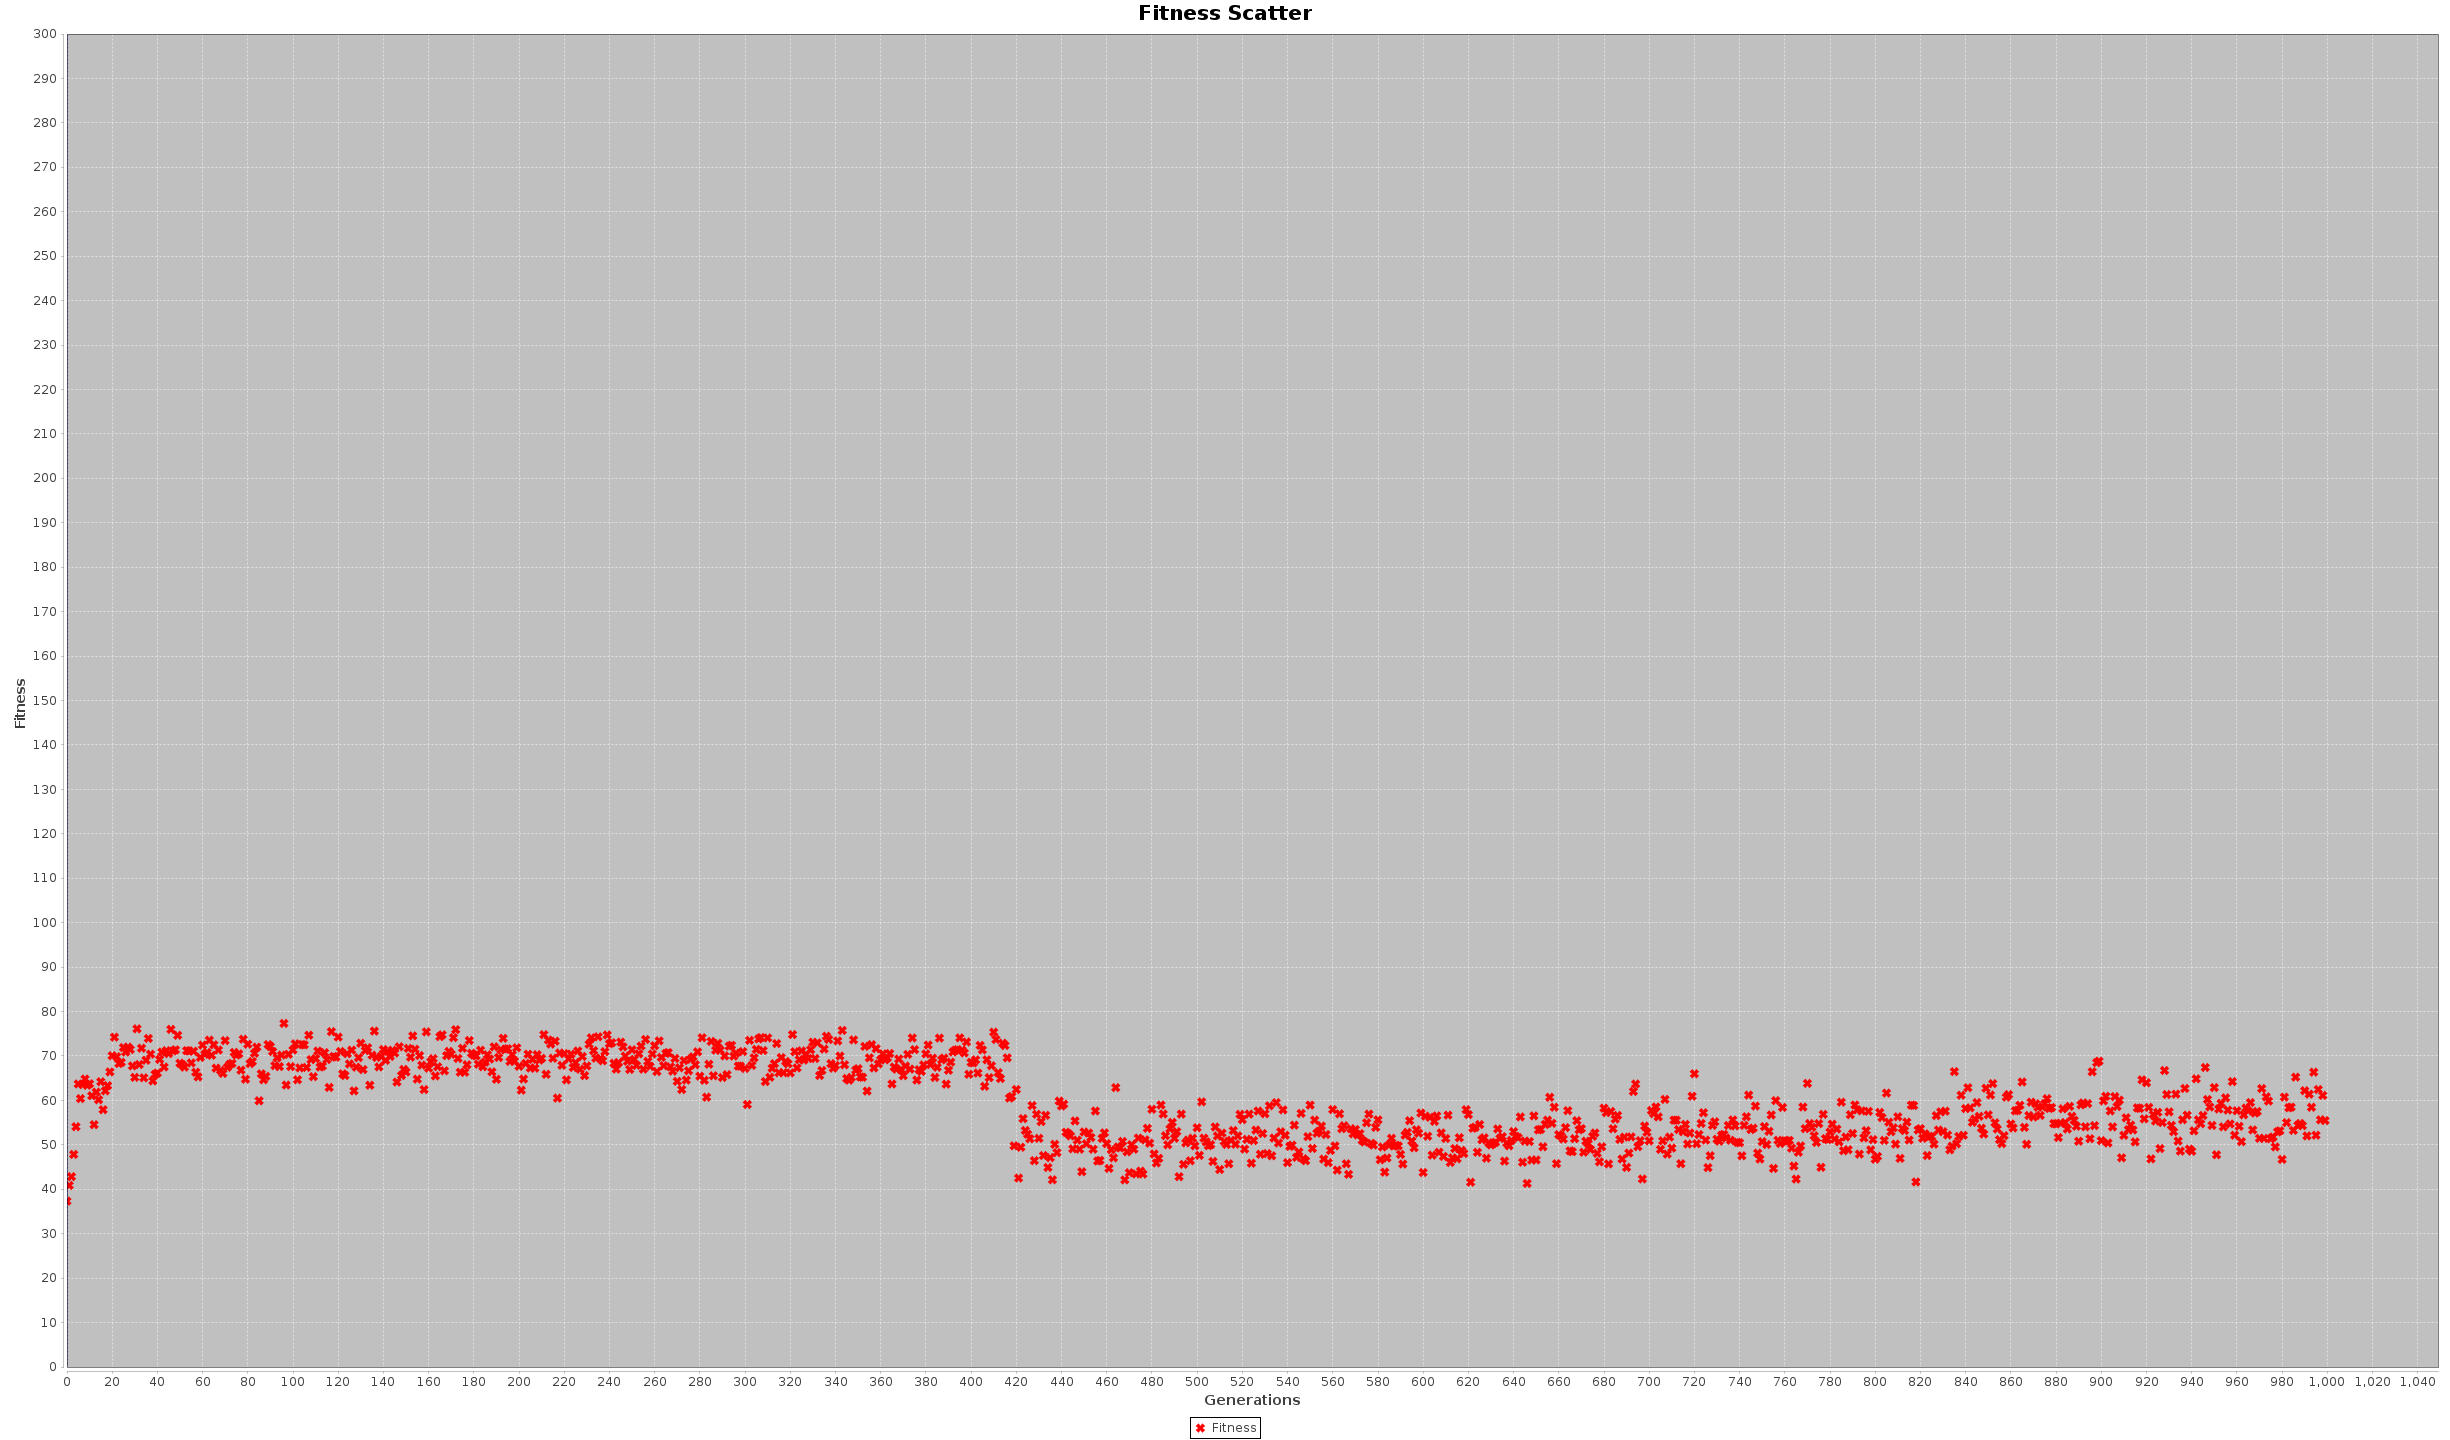
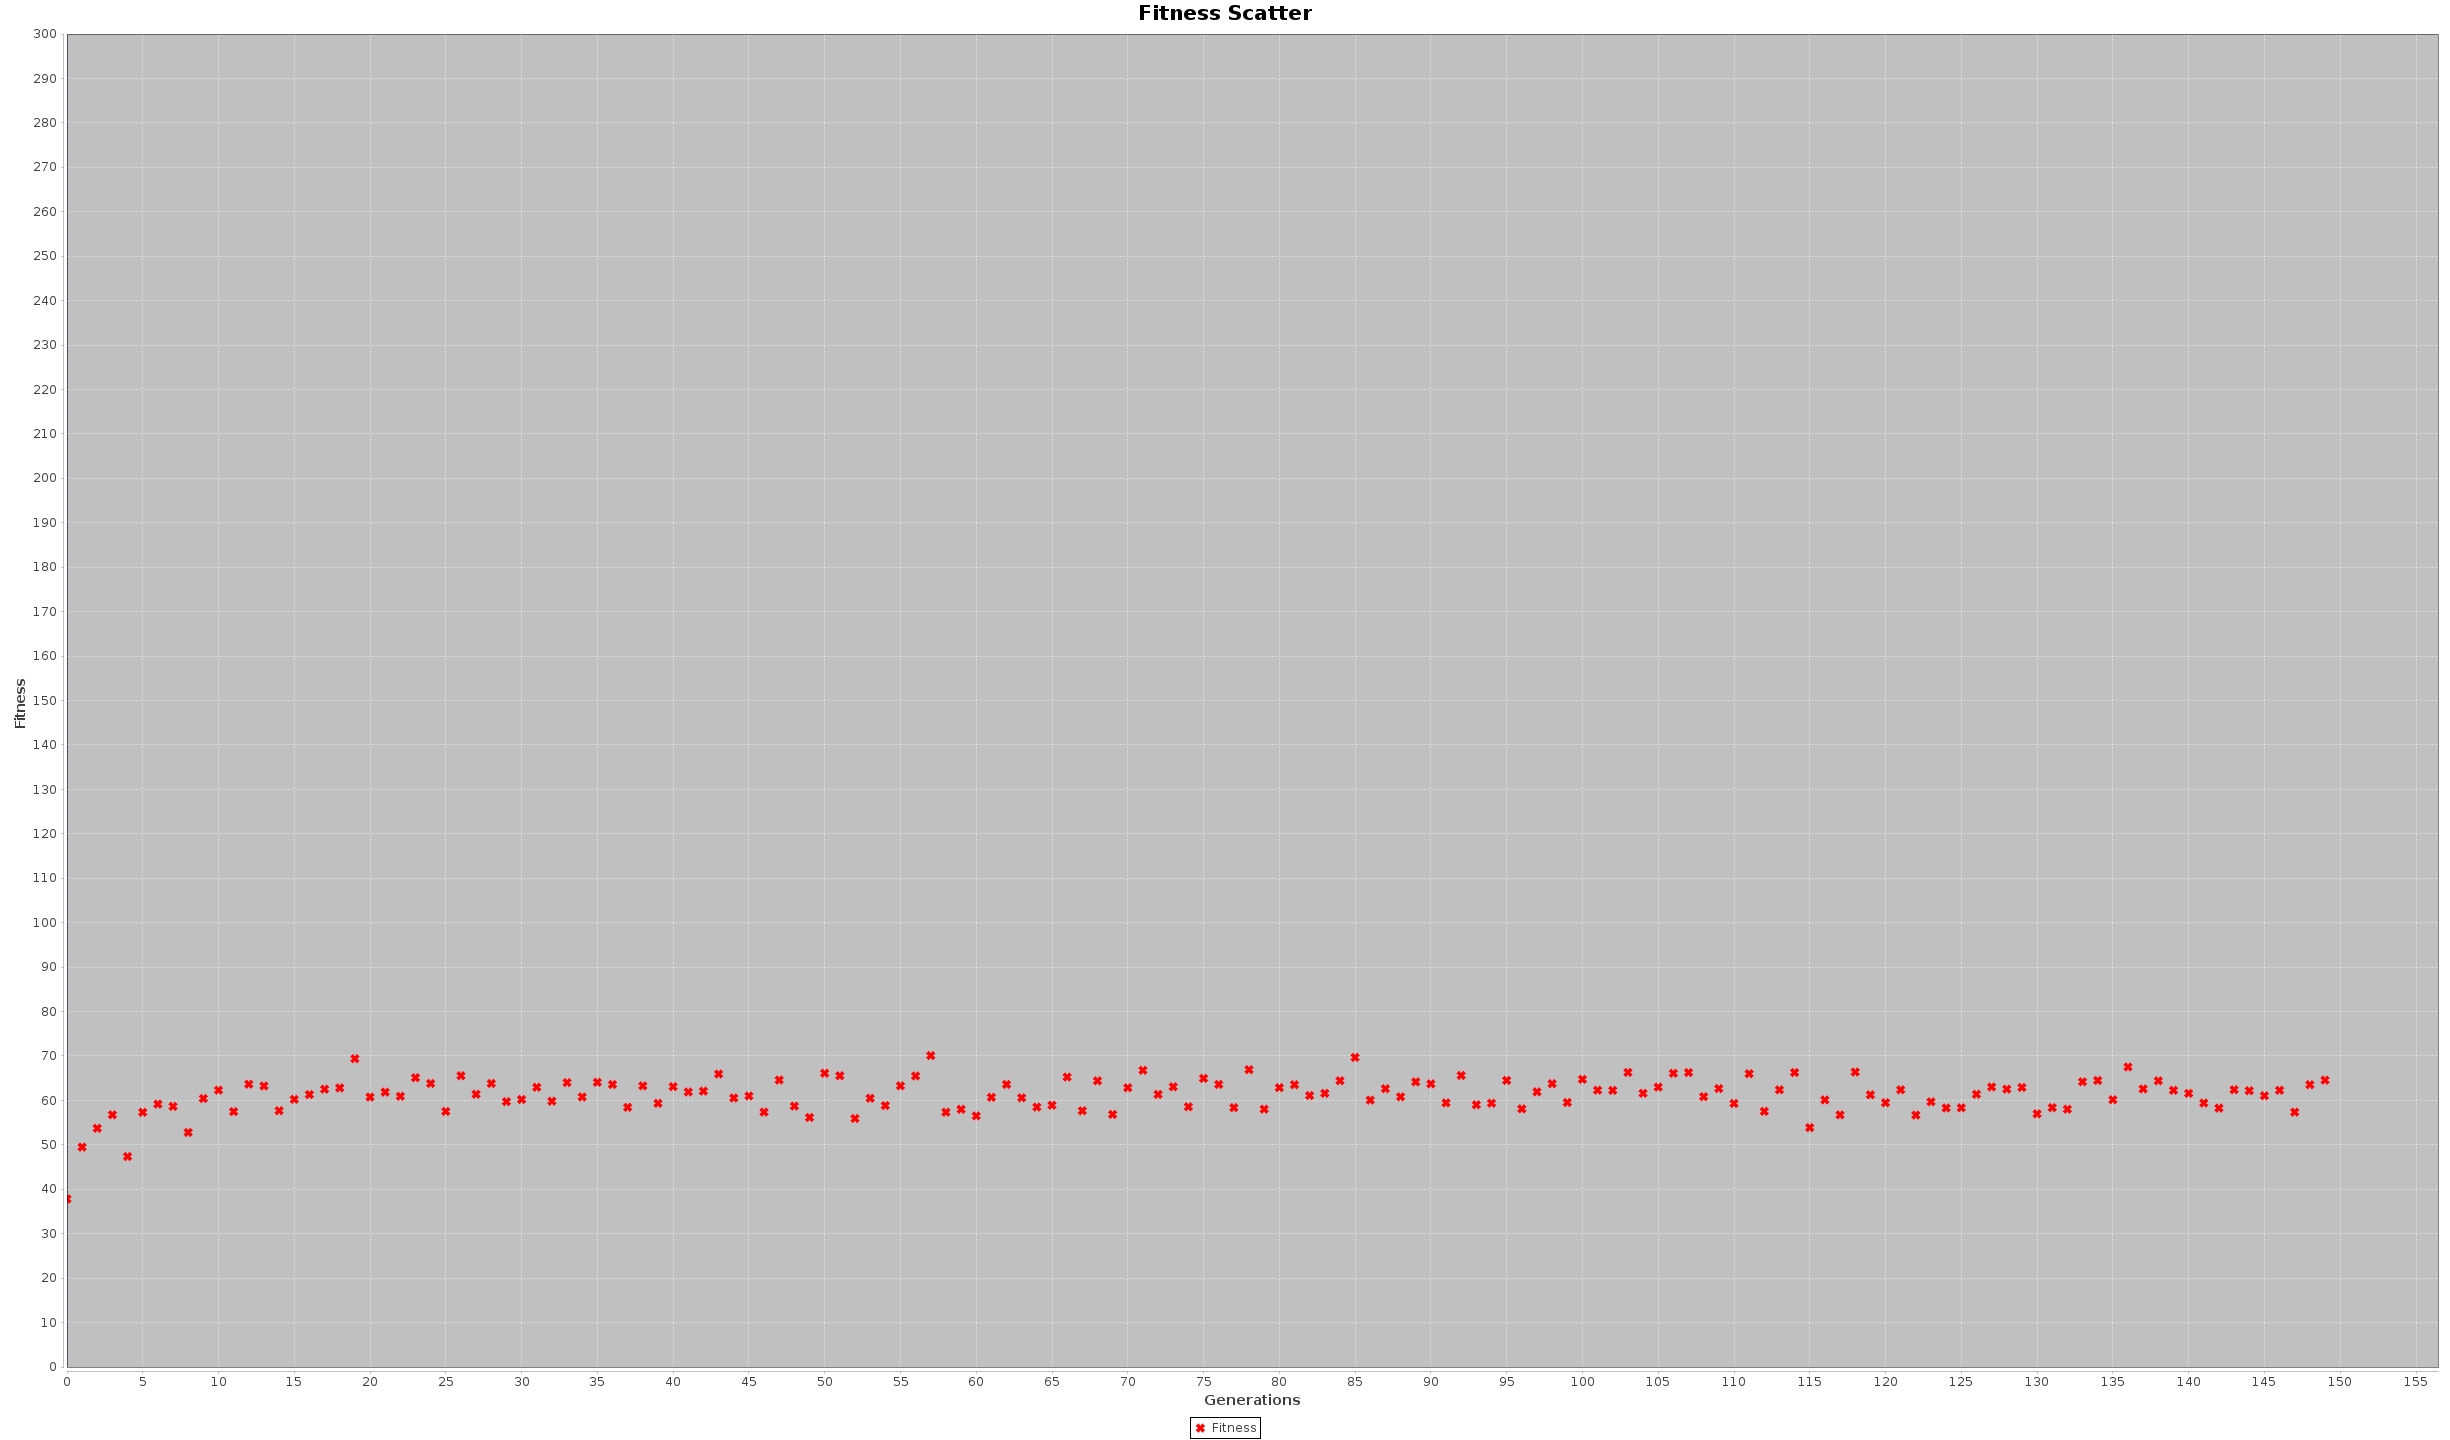
work in progress

Changed region(s): [[0.031, 0.7188, 0.9616, 0.8125]]

diff --git a/src/MyWorld.java b/src/MyWorld.java
@@ -64,7 +64,7 @@ public class MyWorld extends World {
     /**
      * The number of generations the genetic algorithm will iterate through.
      */
-    private final int numGenerations = 1000;
+    private final int numGenerations = 150;
     
     private double[] averageFitnessPerGen = new double[numGenerations];
     
@@ -117,9 +117,9 @@ public class MyWorld extends World {
         showStatus(oldPopulation, numCreatures);
 
         int newGen = 0;
-        /*for(int i = 0; i < survivors.size(); i++) {
+        for(int i = 0; i < survivors.size(); i++) {
             newGeneration[newGen++] = survivors.get(i);
-        }*/
+        }
         
         while(newGen < numCreatures) {
            
@@ -136,25 +136,6 @@ public class MyWorld extends World {
         previousAvgFit = totalFitness/numCreatures;
         
         return newGeneration;
-    }
-    
-    private MyCreature rouletteWheelSelection(MyCreature[] oldPopulation, int totalFitSum) {
-        System.out.println("Total Sum: " + totalFitSum);
-        
-        Random rand = new Random();
-        
-        float spinNum = rand.nextFloat();
-        int selection = -1;
-        
-        for(int i = oldPopulation.length - 1; i > 0; i--) {
-            System.out.println(oldPopulation[i].getFitness()/totalFitSum);
-            if(oldPopulation[i].getFitness() >= spinNum) {
-                selection = i;
-                break;
-            }
-        }
-        
-        return oldPopulation[selection];
     }
     
     private ParentCouple tournamentSelection(MyCreature[] oldPopulation) {
@@ -203,15 +184,16 @@ public class MyWorld extends World {
      
         Chromosome newGenes = new Chromosome();
 
-        newGenes.setDirectionIntel(orderOneCrossOver(dirIntelP1, dirIntelP2));
-        newGenes.setActionSensGenes(onePointCrossOver(actionSensitivityP1,
-                                                      actionSensitivityP2));
-        newGenes.setFFFSensGenes(orderOneCrossOver(fffSensitivityP1,
-                                                   fffSensitivityP2));
+        newGenes.setDirectionIntel(dirMutation(
+                                    orderOneCrossOver(dirIntelP1, dirIntelP2)));
         
-        newGenes.setDirectionIntel(dirMutation(newGenes.getDirectionIntel()));
-        newGenes.setActionSensGenes(mutateWeights(newGenes.getActionSensGenes()));
-        newGenes.setFFFSensGenes(dirMutation(newGenes.getFFFSensGenes()));
+        newGenes.setActionSensGenes(mutateWeights(
+                                        onePointCrossOver(actionSensitivityP1,
+                                                          actionSensitivityP2)));
+        newGenes.setFFFSensGenes(fffMutation(
+                                    orderOneCrossOver(
+                                                fffSensitivityP1,
+                                                fffSensitivityP2)));
         
         return newGenes;
     }
@@ -286,7 +268,7 @@ public class MyWorld extends World {
         
         int left  = 0;
         int right = 0;
-        
+        /*
         do {
            left  = rand.nextInt(genes1.length);
            right = rand.nextInt(genes1.length);
@@ -304,6 +286,18 @@ public class MyWorld extends World {
             }
             i++;
         }
+        */
+        int xoverPoint = rand.nextInt(genes1.length);
+        int i = 0;
+        while(i < genes1.length) {
+            if(i < xoverPoint) {
+              newSubTraits[i] = genes1[i];   
+            } else {
+                newSubTraits[i] = genes2[i];
+            }
+            
+            i++;
+        }
         
         mutateWeights(newSubTraits);
         
@@ -314,7 +308,7 @@ public class MyWorld extends World {
         
         Random rand = new Random();
         
-        int mutationRate = rand.nextInt(6500);
+        int mutationRate = rand.nextInt(4000);
         
         if(mutationRate < dirGenes.length) {
         
@@ -336,13 +330,35 @@ public class MyWorld extends World {
         
         Random rand = new Random();
         
-        int mutate = rand.nextInt(4000);
+        int mutate = rand.nextInt(3000);
         
         if(mutate < subTraits.length) {
             subTraits[mutate] = rand.nextFloat();
         }
 
         return subTraits;
+    }    
+    
+    public int[] fffMutation(int[] fffGenes) {
+        
+        Random rand = new Random();
+        
+        int mutationRate = rand.nextInt(9000);
+        
+        if(mutationRate < fffGenes.length) {
+        
+
+            int idx1 = rand.nextInt(fffGenes.length);
+            int idx2 = rand.nextInt(fffGenes.length);
+            
+            int copy = fffGenes[idx1];
+            
+            fffGenes[idx1] = fffGenes[idx2];
+            fffGenes[idx2] = copy;
+
+        }
+        
+        return fffGenes;
     }
     
     /**
@@ -507,7 +523,7 @@ public class MyWorld extends World {
 
        boolean repeatableMode = false;
        
-       int gridSize = 50;
+       int gridSize = 60;
        int perceptFormat = 2;
        int windowWidth =  2456;
        int windowHeight = 1440;

diff --git a/src/MyCreature.java b/src/MyCreature.java
@@ -21,7 +21,7 @@ import java.util.Set;
 */
 public class MyCreature extends Creature {
     
-    private static class HashSetImpl extends HashSet<Integer> {
+    private class HashSetImpl extends HashSet<Integer> {
 
         public HashSetImpl() {
         }
@@ -38,7 +38,7 @@ public class MyCreature extends Creature {
         }
     }
     
-    private static class ZoneSet<Integer> {
+    private class ZoneSet<Integer> {
         private Set<Integer> dangerZones;
         private Set<Integer> neutralZones;
         private Set<Integer> resourceZones;
@@ -81,8 +81,6 @@ public class MyCreature extends Creature {
         }
     }
     
-    private static final Set<Integer> ZONES = new HashSetImpl();
-    
     private static final int THREAT_THRES = 0;
     private static final int FRIEND_THRES = 1;
     private static final int FOOD_THRES   = 2;
@@ -120,8 +118,8 @@ public class MyCreature extends Creature {
     @Override
     public float[] AgentFunction(int[] percepts, int numPercepts, int numExpectedActions) {
         Set<Integer> dangerZones, neutralZones, resourceZones;
-        
-        ZoneSet zonesIntel     = new ZoneSet(new HashSet<>(), ZONES, new HashSet<>()); 
+        Set<Integer> zones = new HashSetImpl();
+        ZoneSet zonesIntel     = new ZoneSet(new HashSet<>(), zones, new HashSet<>()); 
         Set<Integer> outcomes  = new HashSet<>();
         
         // default actions would be determined by genotypes of individuals.
@@ -129,6 +127,7 @@ public class MyCreature extends Creature {
    
         int perceptSections = percepts.length / 3;
         int perceptOffset   = 9;
+        int zoneSize = zones.size();
         
         for(int i = 0; i < perceptSections; i++) {
             
@@ -145,8 +144,7 @@ public class MyCreature extends Creature {
             if(sensingCrea == 1) creatureNearby = true;
             if(sensingFood == 1 || sensingFood == 2) foodNearby = true;
             if(monsterNearby && foodNearby) System.out.println("somthing is amist!!!!!!!!!!!!!!!!!!!!!!!!!!!!!!!!!!!!!!!!!!!!!!!!!!!!!!!!!!!!!!!!!!!!");
-            //System.out.println(monsterNearby + " " + creatureNearby + " " +foodNearby );
-        
+
             // determine fffs.
             if(monsterNearby) {
                 int fffStatusM = determineFFFReaction(chromosome.getFFFVal(0));
@@ -172,33 +170,22 @@ public class MyCreature extends Creature {
                     actions[chromosome.dirValToPerceptLoc(relativeDir)] = 
                             chromosome.getDirToActWeights(relativeDir);         
             }
-            actions[Chromosome.RND_ACT] = chromosome.getActionSens(Chromosome.RND_WT);        
-        } else {
-            for(int relativeDir : neutralZones) {                     
-                if(!dangerZones.contains(relativeDir)) {
-                    outcomes.add(relativeDir);
-                }
+            if(neutralZones.size() == zoneSize) {
+                actions[Chromosome.RND_ACT] = chromosome.getActionSens(Chromosome.RND_WT);        
             }
+        } else {
             for(int relativeDir : resourceZones) {
                 if(!dangerZones.contains(relativeDir)) {
                     outcomes.add(relativeDir);
                 }            
             }
             for(int relativeDir : outcomes) {
-                
                 if(relativeDir == Chromosome.C) {
-                    
-                    if(chromosome.dirValToPerceptLoc(relativeDir) == 1) {
-                        actions[chromosome.dirValToPerceptLoc(relativeDir)] = 
-                                chromosome.getActionSens(Chromosome.C_WT);
-                    } else {
-                        actions[Chromosome.EAT_ACT] = 
+                    actions[Chromosome.EAT_ACT] = 
                                 chromosome.getActionSens(Chromosome.EAT_WT);     
-                    }
-                   
                 } else {
                     actions[chromosome.dirValToPerceptLoc(relativeDir)] = 
-                            chromosome.getDirToActWeights(relativeDir);
+                                        chromosome.getDirToActWeights(relativeDir);
                 }
             }
         }
@@ -228,8 +215,8 @@ public class MyCreature extends Creature {
                 }
                 else if(relativePosition == Chromosome.S) {
                     zoneIntel.addToDZ(Chromosome.S);
-                    zoneIntel.addToDZ(Chromosome.SW);
-                    zoneIntel.addToDZ(Chromosome.SE);
+                   zoneIntel.addToDZ(Chromosome.SW);
+                   zoneIntel.addToDZ(Chromosome.SE);
                 }
                 else if(relativePosition == Chromosome.E) {
                     zoneIntel.addToDZ(Chromosome.E);
